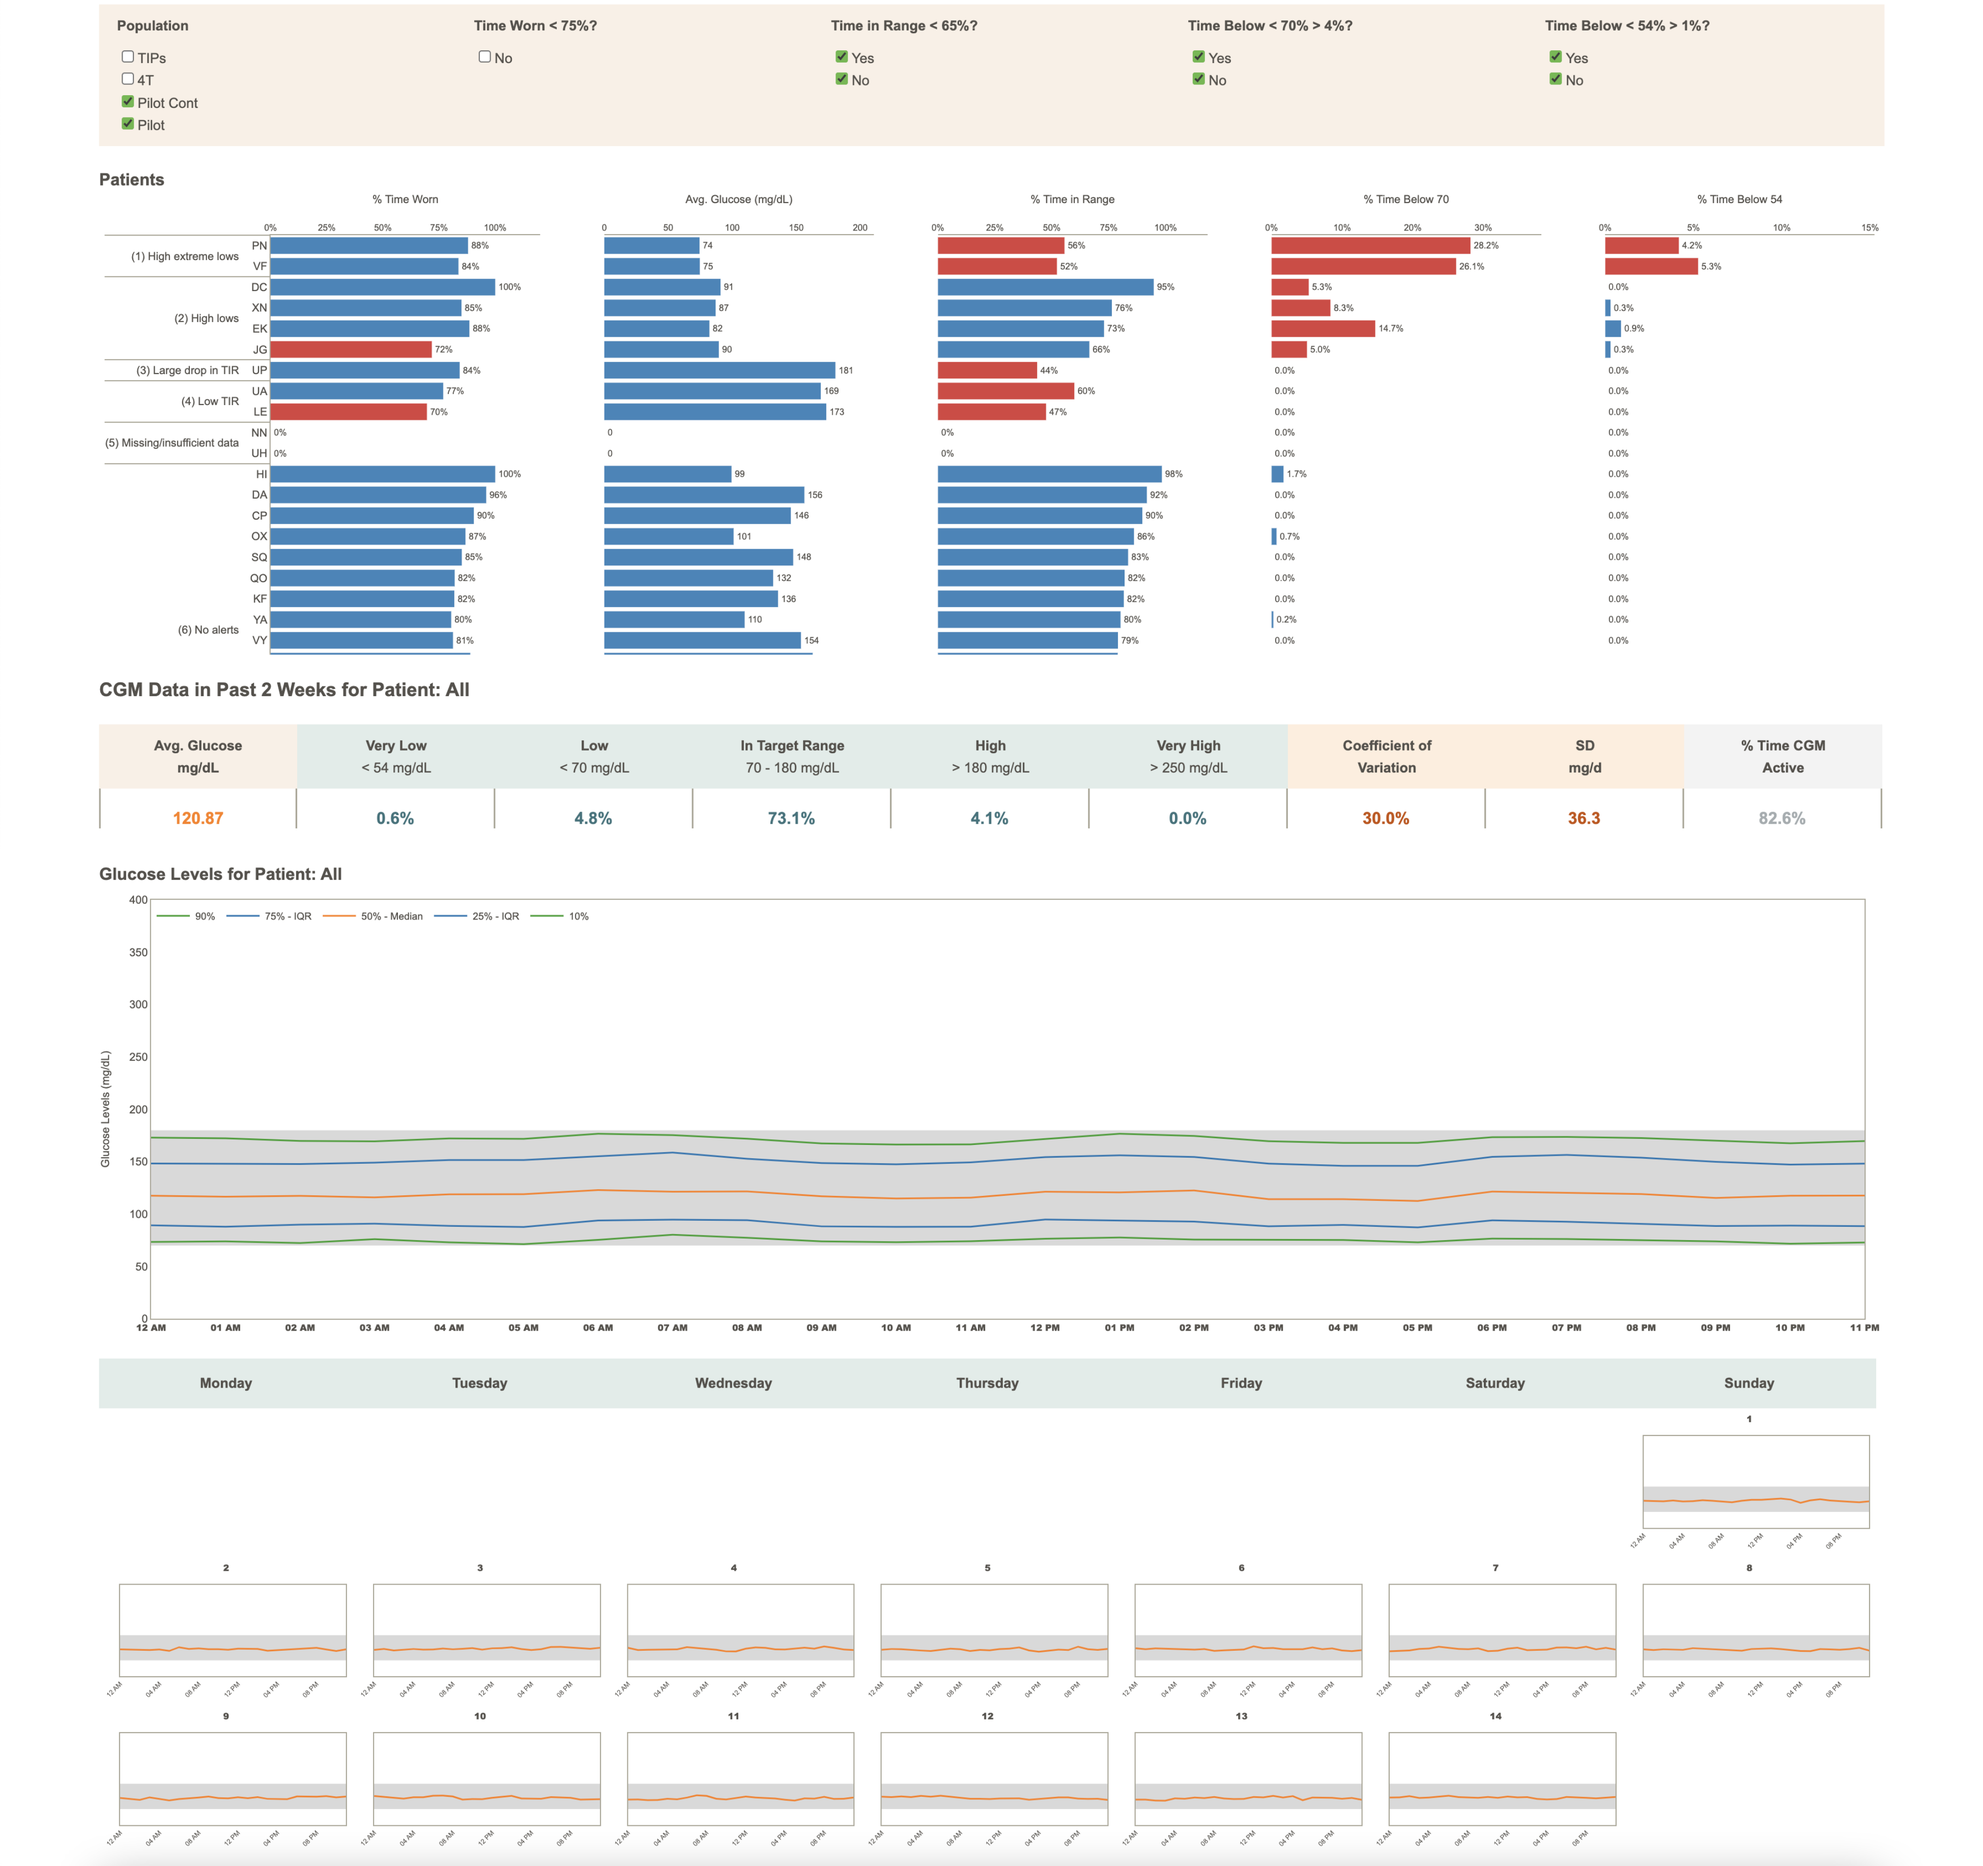
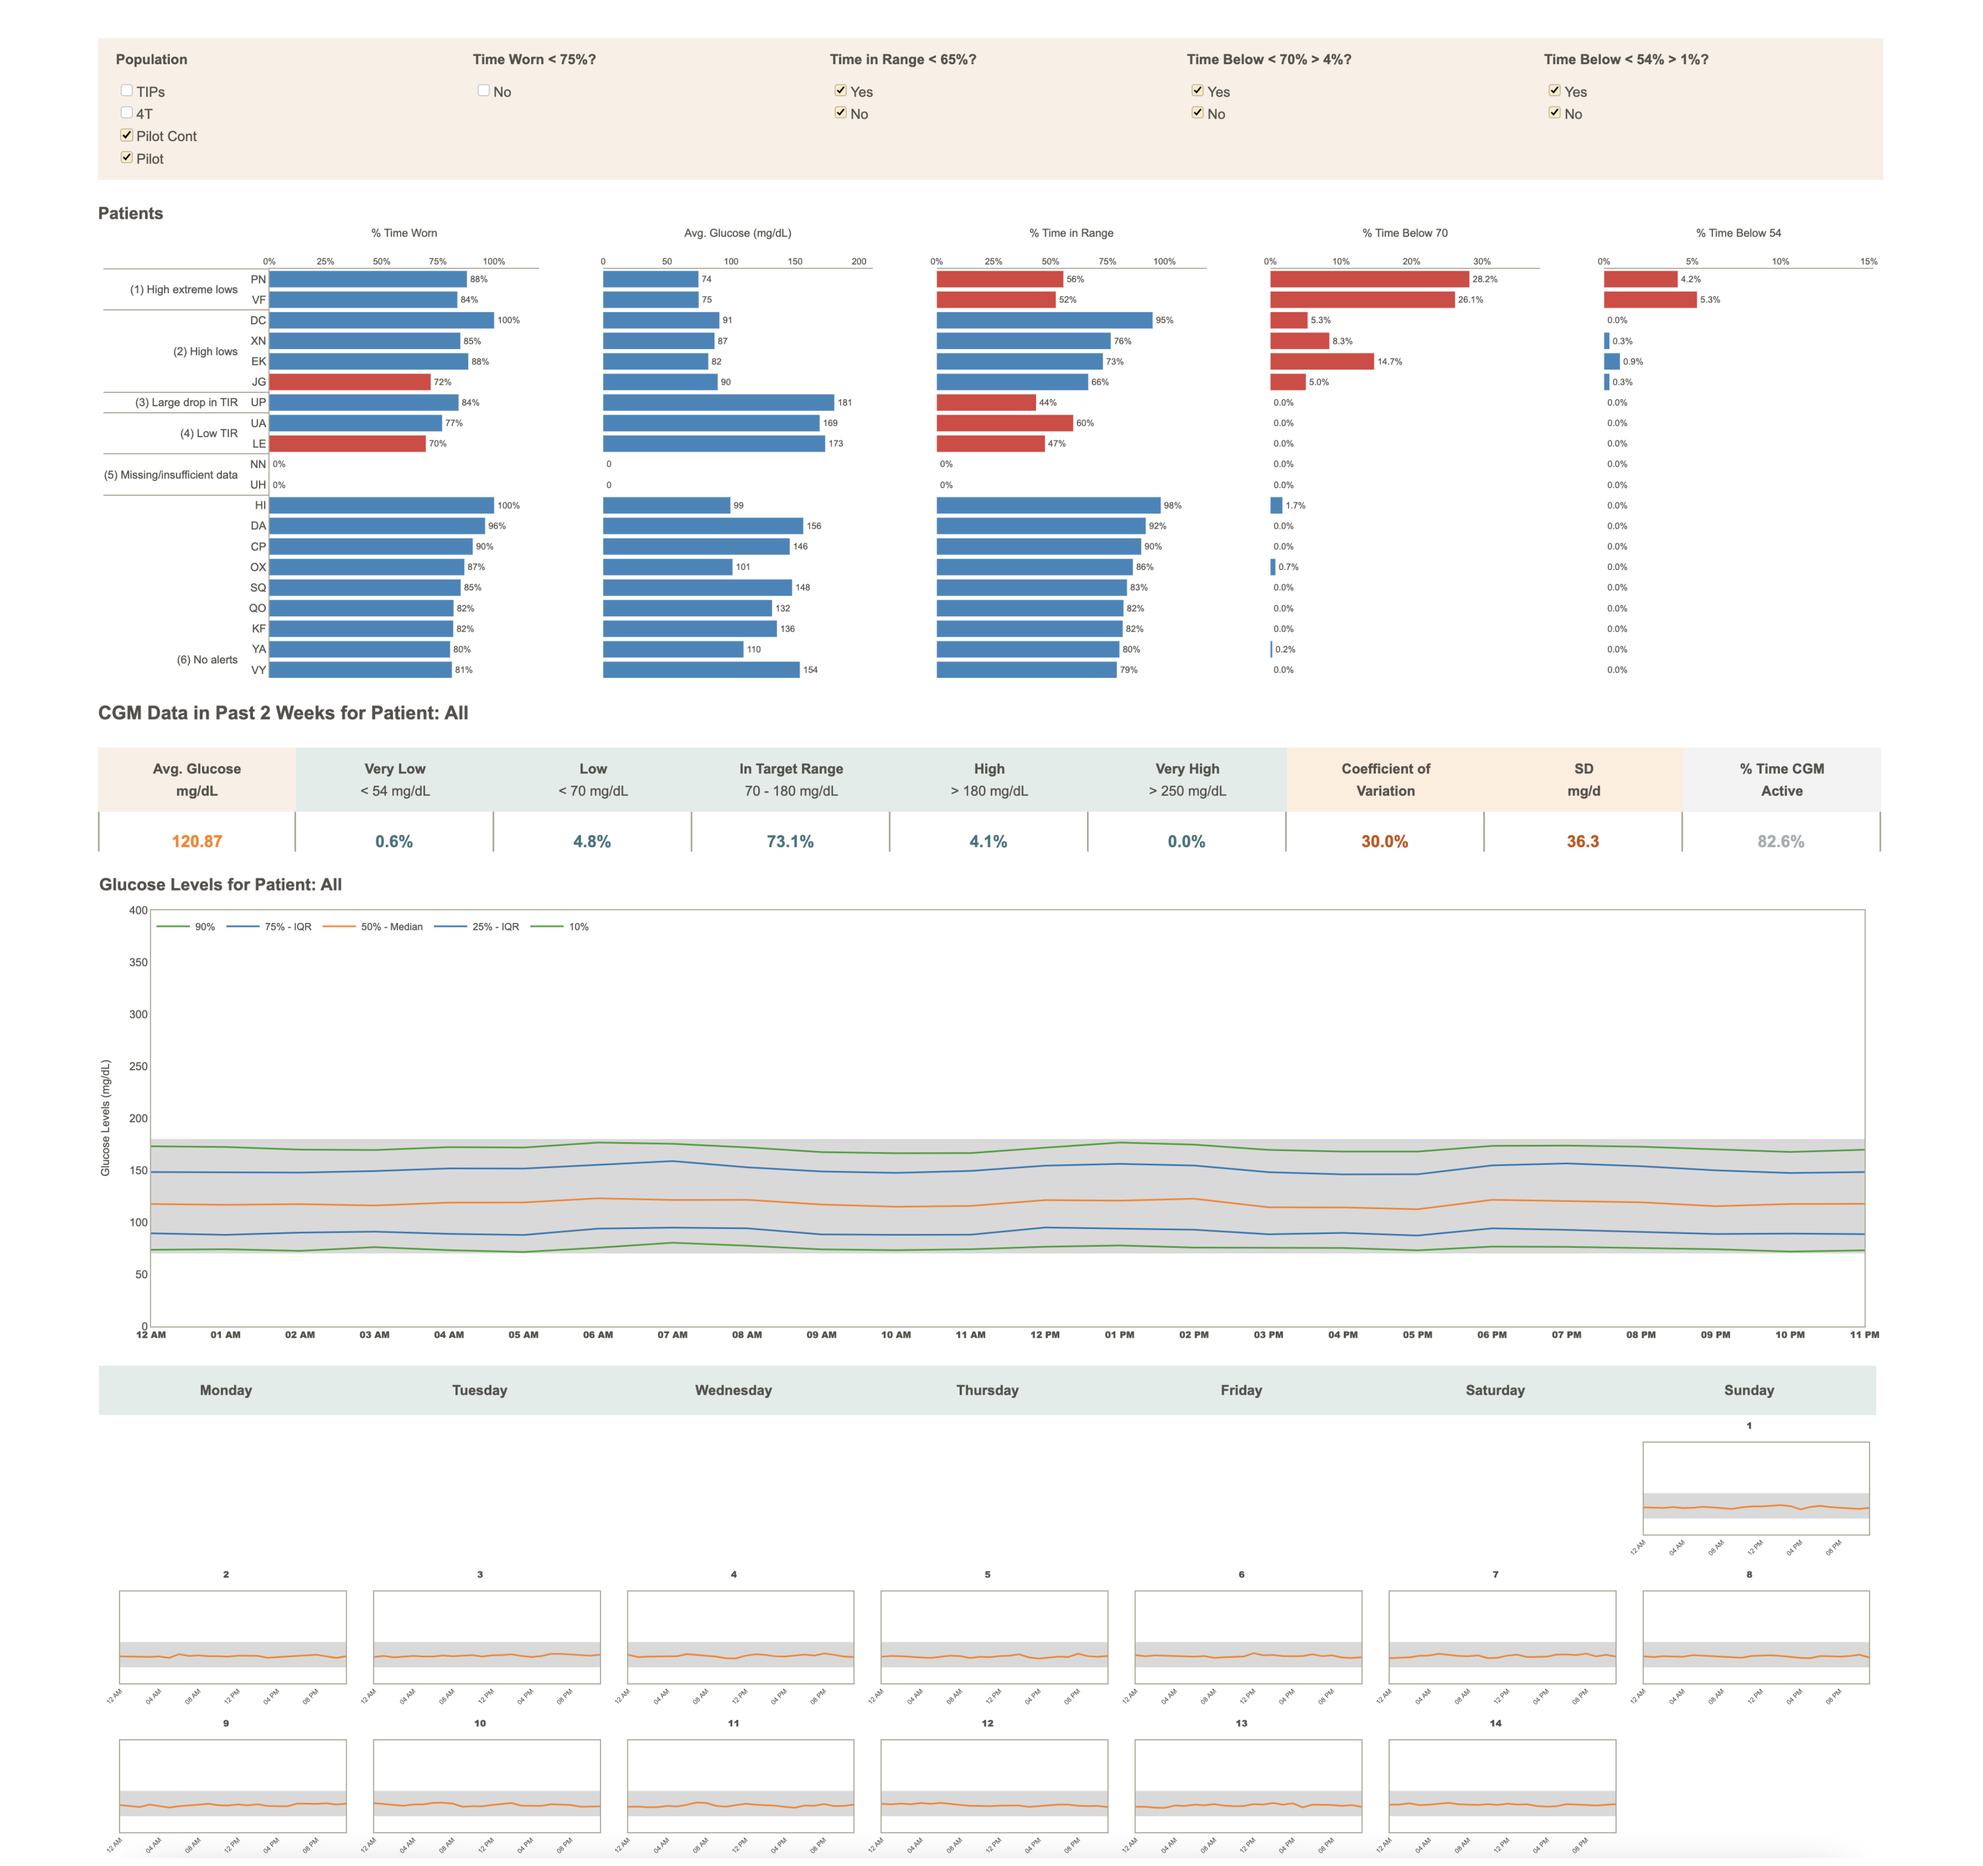
update screenshot

diff --git a/application.py b/application.py
@@ -38,7 +38,7 @@ app.layout = html.Div(
         # Filters.
         html.Div(
             children=filters_layout(data),
-            style={'margin': '0.5vw 0vw 0.5vw 0vw'}
+            style={'margin': '1.5vw 0vw 0.5vw 0vw'}
         ),
 
         # Bar chart.
@@ -62,7 +62,7 @@ app.layout = html.Div(
         # Timeline.
         html.Div(
             children=timeline_layout,
-            style={'margin': '1vw 0vw 1vw 0vw'}
+            style={'margin': '1vw 0vw 1.5vw 0vw'}
         ),
 
     ]
